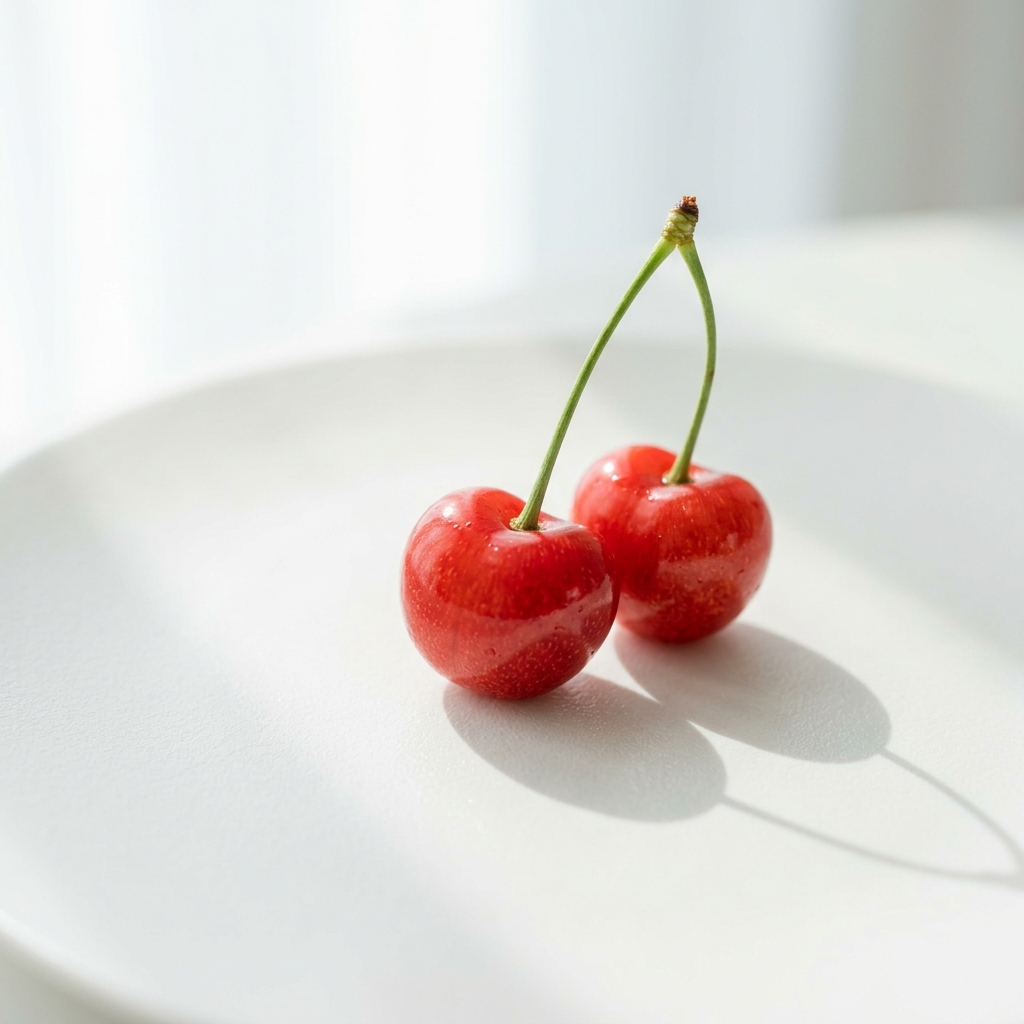
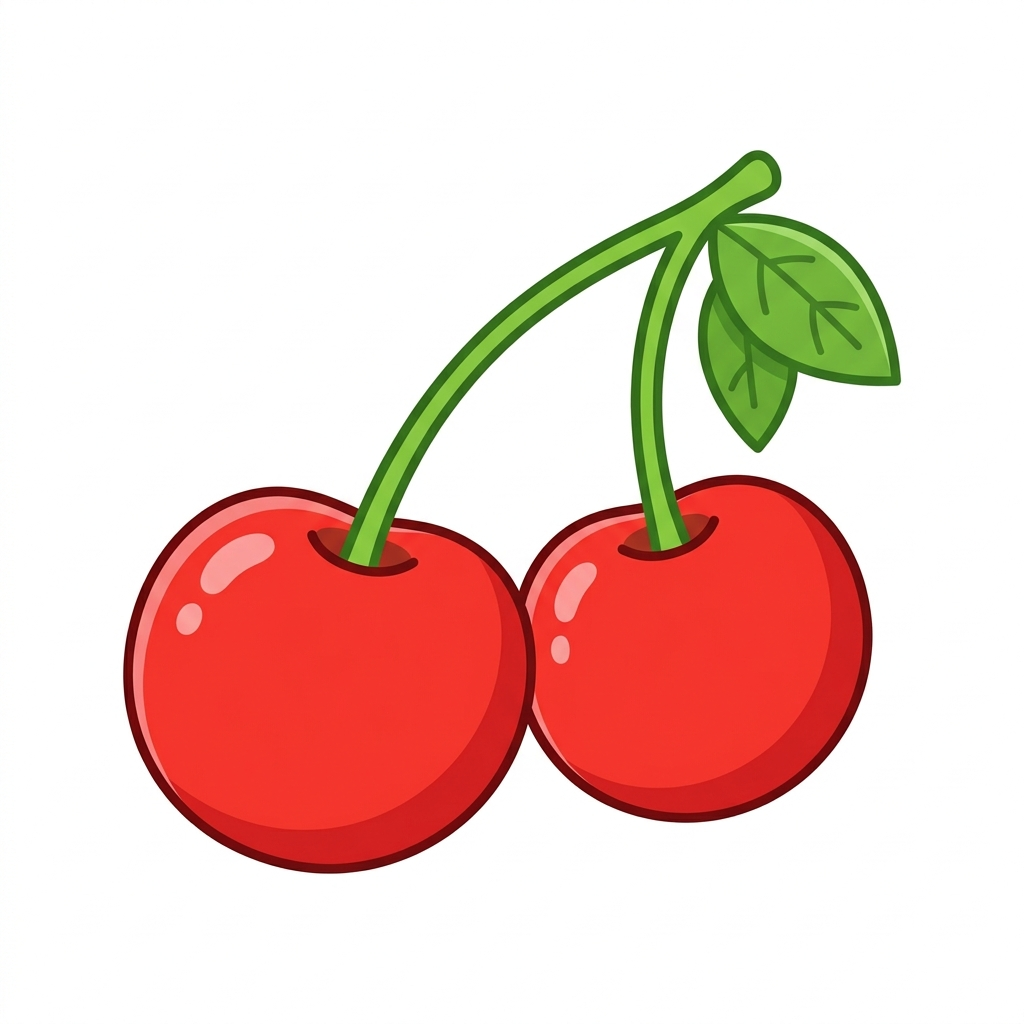
[개선] 앵두 이미지를 가이드 스타일(2D 일러스트)로 최종 수정 및 캐시 버전 업

diff --git a/docs/assets/main.js b/docs/assets/main.js
@@ -1,5 +1,5 @@
-import"./modulepreload-polyfill.js";/* empty css     */import{r as O,C as A,L}from"./index.js";import{K as j}from"./korean-lunar-calendar.js";const f=O("PushNotifications",{});async function G(){if(!A.isNativePlatform()){console.log("웹 환경이므로 Push 알림 초기화를 건너뜁니다.");return}console.log("Push 알림 초기화 시작...");try{let e=await f.checkPermissions();if(e.receive==="prompt"&&(e=await f.requestPermissions()),e.receive!=="granted"){console.log("Push 권한이 거부되었습니다.");return}await f.register(),f.addListener("registration",n=>{console.log("Push Registration Token:",n.value)}),f.addListener("registrationError",n=>{console.error("Push 등록 실패:",n)}),f.addListener("pushNotificationReceived",async n=>{console.log("알림 수신:",n),await L.schedule({notifications:[{title:n.title||"띵동 제철음식",body:n.body||"새로운 알림이 도착했습니다.",id:new Date().getTime(),schedule:{at:new Date(Date.now()+100)},extra:n.data,channelId:"default",smallIcon:"ic_notification"}]})});const t=n=>{console.log("알림 액션 발생:",n);const o=n.notification.extra||n.notification.data;o&&o.url?window.location.href=o.url:o&&o.path&&(window.location.hash=o.path)};f.addListener("pushNotificationActionPerformed",t),L.addListener("localNotificationActionPerformed",t),await f.createChannel({id:"default",name:"기본 알림",description:"띵동 제철음식 기본 알림",importance:3,visibility:1}),console.log("Push 알림 설정 완료")}catch(e){console.error("Push 초기화 중 오류 발생:",e)}}const x="seasons:ingredients:v17",z=1440*60*1e3;try{localStorage.removeItem("seasons:ingredients:v16"),localStorage.removeItem("seasons:ingredients:v15"),localStorage.removeItem("seasons:ingredients:v14"),localStorage.removeItem("seasons:ingredients:v13"),localStorage.removeItem("seasons:ingredients:v12"),localStorage.removeItem("seasons:ingredients:v11"),localStorage.removeItem("seasons:ingredients:v10"),console.log("구버전 캐시 초기화 완료 (v17)")}catch{}const _={해산물:1,채소:2,과일:3,기타:4};async function Z(){try{const e=await fetch("data/holidays.json?v=v10");if(!e.ok)throw new Error("명절 데이터 로드 실패");return{holidays:await e.json(),error:null}}catch(e){return console.error(e),{holidays:[],error:e}}}function F(e,t){const n=e.solar_overrides;if(!n)return null;const o=String(t),r=n[o];if(!r)return null;if(typeof r=="string"){const i=r.split("-");if(i.length!==2)return null;const a=parseInt(i[0],10),c=parseInt(i[1],10);return!a||!c?null:new Date(t,a-1,c)}return typeof r=="object"&&r.month&&r.day?new Date(t,r.month-1,r.day):null}function k(e){return e===2025?new Date(2025,11,22):e===2026?new Date(2026,11,22):new Date(e,11,22)}function D(e,t){const{type:n,month:o,day:r}=e.date,i=F(e,t);if(i)return i;if(e.id==="hansik"){const a=k(t-1);if(!a)return null;const c=new Date(a);return c.setDate(c.getDate()+105),c}if(n==="lunar"){const a=new j,c=!!e.date.intercalation;if(!a.setLunarDate(t,o,r,c))return null;const l=a.getSolarCalendar();return!l||!l.year||!l.month||!l.day?null:new Date(l.year,l.month-1,l.day)}return n==="solar"?new Date(t,o-1,r):k(t)}function P(e,t){const n=t.getFullYear();let o=D(e,n);return o?(o<t&&(o=D(e,n+1)),o):null}function K(e){const t=new Date;t.setHours(0,0,0,0);let n=null,o=1/0;return e.forEach(r=>{const i=P(r,t);if(!i)return;const a=i.getTime()-t.getTime();a>=0&&a<o&&(o=a,n={...r,solarDate:i})}),n}function Q(e){if(!e)return;const t=document.getElementById("holidayBanner");if(!t)return;const n=t.querySelector(".holiday-banner__date"),o=t.querySelector(".holiday-banner__description"),r=t.querySelector(".holiday-banner__image"),i=e.solarDate.getMonth()+1,a=e.solarDate.getDate();n.textContent=`${i}월 ${a}일은 ${e.name}입니다.`,o.textContent=`${e.name}에는 ${e.main_food} 먹어요`,r.src=`images/${e.image}`,r.alt=e.name,t.style.display="block",document.body.classList.add("has-banner"),t.onclick=()=>{window.location.href=`holiday.html?id=${encodeURIComponent(e.id)}`}}function U(){const e=document.getElementById("holidayBanner");if(!e)return;const t=e.querySelector(".holiday-banner__date"),n=e.querySelector(".holiday-banner__description"),o=e.querySelector(".holiday-banner__image");e.classList.add("holiday-banner--error"),e.style.cursor="default",e.onclick=null,t&&(t.textContent="명절 정보를 불러올 수 없습니다."),n&&(n.textContent="네트워크 상태를 확인해 주세요."),o&&(o.removeAttribute("src"),o.alt="",o.style.display="none"),e.style.display="block",document.body.classList.add("has-banner")}function V(){const e=document.getElementById("holidayBanner");if(!e)return;let t=window.scrollY,n=!1;const o=()=>{const r=window.scrollY,i=S();e.style.top=`${i}px`,r!==t&&(r<t||r<=50?(e.classList.remove("hidden"),document.body.classList.add("has-banner")):s.isProgrammaticScroll||(e.classList.add("hidden"),document.body.classList.remove("has-banner"))),t=r<=0?0:r,n=!1};o(),window.addEventListener("scroll",()=>{n||(window.requestAnimationFrame(o),n=!0)}),window.addEventListener("resize",()=>{requestAnimationFrame(o)})}function H(){return new Date().getMonth()}function W(e){return`${e}월`}function J(e){return e===12||e===1||e===2?"winter":e>=3&&e<=5?"spring":e>=6&&e<=8?"summer":"autumn"}function p(e){const t=e+1,n=J(t),o=document.body;o.classList.remove("theme-spring","theme-summer","theme-autumn","theme-winter"),o.classList.add(`theme-${n}`)}async function X(){try{const n=localStorage.getItem(x);if(n){const o=JSON.parse(n);if(Date.now()-o.timestamp<z)return o.data}}catch{}const e=await fetch("data/ingredients.json?v=v15",{cache:"no-cache"});if(!e.ok)throw new Error("데이터 로드 실패");const t=await e.json();try{localStorage.setItem(x,JSON.stringify({timestamp:Date.now(),data:t}))}catch{}return t}function ee(){const e=[];for(let t=1;t<=12;t++)e.push({month:t,key:`month-${t}`});return e}function B(e,t,n){const o=(t||"").trim().toLowerCase(),r=e.filter(i=>i.months?.includes(n)?o?`${i.name_ko||""}
[1 lines of base64/hex data omitted]
+import"./modulepreload-polyfill.js";/* empty css     */import{r as O,C as A,L}from"./index.js";import{K as j}from"./korean-lunar-calendar.js";const f=O("PushNotifications",{});async function G(){if(!A.isNativePlatform()){console.log("웹 환경이므로 Push 알림 초기화를 건너뜁니다.");return}console.log("Push 알림 초기화 시작...");try{let e=await f.checkPermissions();if(e.receive==="prompt"&&(e=await f.requestPermissions()),e.receive!=="granted"){console.log("Push 권한이 거부되었습니다.");return}await f.register(),f.addListener("registration",n=>{console.log("Push Registration Token:",n.value)}),f.addListener("registrationError",n=>{console.error("Push 등록 실패:",n)}),f.addListener("pushNotificationReceived",async n=>{console.log("알림 수신:",n),await L.schedule({notifications:[{title:n.title||"띵동 제철음식",body:n.body||"새로운 알림이 도착했습니다.",id:new Date().getTime(),schedule:{at:new Date(Date.now()+100)},extra:n.data,channelId:"default",smallIcon:"ic_notification"}]})});const t=n=>{console.log("알림 액션 발생:",n);const o=n.notification.extra||n.notification.data;o&&o.url?window.location.href=o.url:o&&o.path&&(window.location.hash=o.path)};f.addListener("pushNotificationActionPerformed",t),L.addListener("localNotificationActionPerformed",t),await f.createChannel({id:"default",name:"기본 알림",description:"띵동 제철음식 기본 알림",importance:3,visibility:1}),console.log("Push 알림 설정 완료")}catch(e){console.error("Push 초기화 중 오류 발생:",e)}}const x="seasons:ingredients:v17",z=1440*60*1e3;try{localStorage.removeItem("seasons:ingredients:v16"),localStorage.removeItem("seasons:ingredients:v15"),localStorage.removeItem("seasons:ingredients:v14"),localStorage.removeItem("seasons:ingredients:v13"),localStorage.removeItem("seasons:ingredients:v12"),localStorage.removeItem("seasons:ingredients:v11"),localStorage.removeItem("seasons:ingredients:v10"),console.log("구버전 캐시 초기화 완료 (v17)")}catch{}const _={해산물:1,채소:2,과일:3,기타:4};async function Z(){try{const e=await fetch("data/holidays.json?v=v10");if(!e.ok)throw new Error("명절 데이터 로드 실패");return{holidays:await e.json(),error:null}}catch(e){return console.error(e),{holidays:[],error:e}}}function F(e,t){const n=e.solar_overrides;if(!n)return null;const o=String(t),r=n[o];if(!r)return null;if(typeof r=="string"){const i=r.split("-");if(i.length!==2)return null;const a=parseInt(i[0],10),c=parseInt(i[1],10);return!a||!c?null:new Date(t,a-1,c)}return typeof r=="object"&&r.month&&r.day?new Date(t,r.month-1,r.day):null}function k(e){return e===2025?new Date(2025,11,22):e===2026?new Date(2026,11,22):new Date(e,11,22)}function D(e,t){const{type:n,month:o,day:r}=e.date,i=F(e,t);if(i)return i;if(e.id==="hansik"){const a=k(t-1);if(!a)return null;const c=new Date(a);return c.setDate(c.getDate()+105),c}if(n==="lunar"){const a=new j,c=!!e.date.intercalation;if(!a.setLunarDate(t,o,r,c))return null;const l=a.getSolarCalendar();return!l||!l.year||!l.month||!l.day?null:new Date(l.year,l.month-1,l.day)}return n==="solar"?new Date(t,o-1,r):k(t)}function P(e,t){const n=t.getFullYear();let o=D(e,n);return o?(o<t&&(o=D(e,n+1)),o):null}function K(e){const t=new Date;t.setHours(0,0,0,0);let n=null,o=1/0;return e.forEach(r=>{const i=P(r,t);if(!i)return;const a=i.getTime()-t.getTime();a>=0&&a<o&&(o=a,n={...r,solarDate:i})}),n}function Q(e){if(!e)return;const t=document.getElementById("holidayBanner");if(!t)return;const n=t.querySelector(".holiday-banner__date"),o=t.querySelector(".holiday-banner__description"),r=t.querySelector(".holiday-banner__image"),i=e.solarDate.getMonth()+1,a=e.solarDate.getDate();n.textContent=`${i}월 ${a}일은 ${e.name}입니다.`,o.textContent=`${e.name}에는 ${e.main_food} 먹어요`,r.src=`images/${e.image}`,r.alt=e.name,t.style.display="block",document.body.classList.add("has-banner"),t.onclick=()=>{window.location.href=`holiday.html?id=${encodeURIComponent(e.id)}`}}function U(){const e=document.getElementById("holidayBanner");if(!e)return;const t=e.querySelector(".holiday-banner__date"),n=e.querySelector(".holiday-banner__description"),o=e.querySelector(".holiday-banner__image");e.classList.add("holiday-banner--error"),e.style.cursor="default",e.onclick=null,t&&(t.textContent="명절 정보를 불러올 수 없습니다."),n&&(n.textContent="네트워크 상태를 확인해 주세요."),o&&(o.removeAttribute("src"),o.alt="",o.style.display="none"),e.style.display="block",document.body.classList.add("has-banner")}function V(){const e=document.getElementById("holidayBanner");if(!e)return;let t=window.scrollY,n=!1;const o=()=>{const r=window.scrollY,i=S();e.style.top=`${i}px`,r!==t&&(r<t||r<=50?(e.classList.remove("hidden"),document.body.classList.add("has-banner")):s.isProgrammaticScroll||(e.classList.add("hidden"),document.body.classList.remove("has-banner"))),t=r<=0?0:r,n=!1};o(),window.addEventListener("scroll",()=>{n||(window.requestAnimationFrame(o),n=!0)}),window.addEventListener("resize",()=>{requestAnimationFrame(o)})}function H(){return new Date().getMonth()}function W(e){return`${e}월`}function J(e){return e===12||e===1||e===2?"winter":e>=3&&e<=5?"spring":e>=6&&e<=8?"summer":"autumn"}function p(e){const t=e+1,n=J(t),o=document.body;o.classList.remove("theme-spring","theme-summer","theme-autumn","theme-winter"),o.classList.add(`theme-${n}`)}async function X(){try{const n=localStorage.getItem(x);if(n){const o=JSON.parse(n);if(Date.now()-o.timestamp<z)return o.data}}catch{}const e=await fetch("data/ingredients.json?v=v18",{cache:"no-cache"});if(!e.ok)throw new Error("데이터 로드 실패");const t=await e.json();try{localStorage.setItem(x,JSON.stringify({timestamp:Date.now(),data:t}))}catch{}return t}function ee(){const e=[];for(let t=1;t<=12;t++)e.push({month:t,key:`month-${t}`});return e}function B(e,t,n){const o=(t||"").trim().toLowerCase(),r=e.filter(i=>i.months?.includes(n)?o?`${i.name_ko||""}
[1 lines of base64/hex data omitted]
     <div class="info-modal__backdrop"></div>
     <div class="info-modal__content">
       <p class="info-modal__message">알림은 앱에서만 받을 수 있습니다. 스토어에서 설치해주세요.</p>

diff --git a/docs/assets/ingredient.js b/docs/assets/ingredient.js
@@ -1,4 +1,4 @@
-import"./modulepreload-polyfill.js";/* empty css     */import{g as c}from"./recipe-mapper.js";async function m(){try{const t=await fetch("data/ingredients.json?v=v17",{cache:"no-cache"});if(!t.ok)throw new Error("Failed to load data");return await t.json()}catch(t){return console.error(t),null}}function y(){const t=document.createElement("div");t.id="coupangRedirectOverlay",t.className="redirect-overlay",t.setAttribute("role","status"),t.innerHTML=`
+import"./modulepreload-polyfill.js";/* empty css     */import{g as c}from"./recipe-mapper.js";async function m(){try{const t=await fetch("data/ingredients.json?v=v18",{cache:"no-cache"});if(!t.ok)throw new Error("Failed to load data");return await t.json()}catch(t){return console.error(t),null}}function y(){const t=document.createElement("div");t.id="coupangRedirectOverlay",t.className="redirect-overlay",t.setAttribute("role","status"),t.innerHTML=`
     <p class="redirect-overlay__text"><span class="redirect-overlay__highlight">쿠팡</span>으로 이동 중이에요</p>
     <div class="redirect-overlay__arrow" aria-hidden="true"></div>
   `,document.body.appendChild(t),requestAnimationFrame(()=>t.classList.add("redirect-overlay--visible"))}function p(){const t=document.getElementById("coupangRedirectOverlay");t&&(t.classList.remove("redirect-overlay--visible"),setTimeout(()=>t.remove(),200))}async function g(){const d=new URLSearchParams(window.location.search).get("id");if(!d){document.getElementById("loading").style.display="none",document.getElementById("error").style.display="block";return}const l=await m();if(!l){document.getElementById("loading").style.display="none",document.getElementById("error").textContent="데이터를 불러올 수 없습니다.",document.getElementById("error").style.display="block";return}const e=l.find(n=>n.name_ko===d);if(!e){document.getElementById("loading").style.display="none",document.getElementById("error").style.display="block";return}if(document.title=`띵동 제철음식 - ${e.name_ko}`,document.getElementById("loading").style.display="none",document.getElementById("detailContainer").style.display="block",document.getElementById("detailImage").src=`images/${e.image||"_fallback.png"}`,document.getElementById("detailImage").alt=e.name_ko,document.getElementById("detailTitle").textContent=e.name_ko,document.getElementById("detailDesc").textContent=e.description_ko||"",e.months&&e.months.length>0){const n=e.months[0];let a="autumn";n===12||n<=2?a="winter":n>=3&&n<=5?a="spring":n>=6&&n<=8&&(a="summer"),document.body.classList.add(`theme-${a}`)}if(e.calories_per_100g&&(document.getElementById("caloriesSection").style.display="block",document.getElementById("caloriesPer100g").textContent=`${e.calories_per_100g}kcal`,document.getElementById("caloriesPerServing").textContent=e.calories_per_serving||""),e.preparation_ko&&(document.getElementById("prepSection").style.display="block",document.getElementById("prepText").textContent=e.preparation_ko),e.storage_room_temp||e.storage_refrigerator||e.storage_freezer){document.getElementById("storageSection").style.display="block";const n=document.getElementById("storageContent");[{t:"실온",i:"🏠",m:e.storage_room_temp},{t:"냉장",i:"🧊",m:e.storage_refrigerator},{t:"냉동",i:"❄",m:e.storage_freezer}].forEach(o=>{if(o.m){const i=document.createElement("div");i.className="modal__storage-item",i.innerHTML=`<span class="modal__storage-type">${o.i} ${o.t}</span><span class="modal__storage-method">${o.m}</span>`,n.appendChild(i)}})}if(e.popular_dish){document.getElementById("dishSection").style.display="block";const n=document.getElementById("dishText"),a=e.popular_dish.split(",").map(o=>o.trim());a.forEach((o,i)=>{const s=c(o);if(s){const r=document.createElement("a");r.href=`recipe.html#${s}`,r.className="dish-link",r.textContent=o,n.appendChild(r)}else{const r=document.createTextNode(o);n.appendChild(r)}i<a.length-1&&n.appendChild(document.createTextNode(", "))})}e.external_url&&(document.getElementById("bottomBar").style.display="flex",document.getElementById("btnPurchase").onclick=()=>{y(),setTimeout(()=>{window.open(e.external_url,"_blank","noopener,noreferrer"),setTimeout(p,400)},600)})}window.handleSmartBack=function(t){new URLSearchParams(window.location.search).get("fromNoti")==="true"||window.history.length<=1?window.location.href=t||"index.html":window.history.back()};document.addEventListener("DOMContentLoaded",g);

diff --git a/docs/assets/recipe.js b/docs/assets/recipe.js
@@ -1,4 +1,4 @@
-import"./modulepreload-polyfill.js";/* empty css     */function d(){const e=new URL(window.location.href),n=e.searchParams.get("id");if(n)return n;const o=(e.hash||"").replace(/^#\/?/,"").trim();if(o)return decodeURIComponent(o);const t=e.pathname.match(/\/recipe(?:\.html)?\/([^/?#]+)/);return t&&t[1]?decodeURIComponent(t[1]):null}async function a(e){try{const n=await fetch("data/recipes.json?v=v21");if(!n.ok)throw new Error("레시피 데이터 로드 실패");return(await n.json()).find(t=>t.id===e)}catch(n){return console.error(n),null}}function m(e){if(r(),!e){s();return}document.getElementById("recipeName").textContent=e.name,document.getElementById("recipeDescription").textContent=e.description,document.getElementById("recipeServings").textContent=`${e.servings}인분`,document.getElementById("recipeCookTime").textContent=e.cookTime,document.getElementById("recipeDifficulty").textContent=e.difficulty,l(e.ingredients),e.seasoning&&e.seasoning.length>0&&u(e.seasoning),p(e.steps),e.tips&&e.tips.length>0&&g(e.tips),document.title=`${e.name} 레시피 - 띵동 제철음식`}function l(e){const n=document.getElementById("ingredientsList");n.innerHTML="",e.forEach(o=>{const t=document.createElement("div");t.className="ingredient-item",t.innerHTML=`
+import"./modulepreload-polyfill.js";/* empty css     */function d(){const e=new URL(window.location.href),n=e.searchParams.get("id");if(n)return n;const o=(e.hash||"").replace(/^#\/?/,"").trim();if(o)return decodeURIComponent(o);const t=e.pathname.match(/\/recipe(?:\.html)?\/([^/?#]+)/);return t&&t[1]?decodeURIComponent(t[1]):null}async function a(e){try{const n=await fetch("data/recipes.json?v=v22");if(!n.ok)throw new Error("레시피 데이터 로드 실패");return(await n.json()).find(t=>t.id===e)}catch(n){return console.error(n),null}}function m(e){if(r(),!e){s();return}document.getElementById("recipeName").textContent=e.name,document.getElementById("recipeDescription").textContent=e.description,document.getElementById("recipeServings").textContent=`${e.servings}인분`,document.getElementById("recipeCookTime").textContent=e.cookTime,document.getElementById("recipeDifficulty").textContent=e.difficulty,l(e.ingredients),e.seasoning&&e.seasoning.length>0&&u(e.seasoning),p(e.steps),e.tips&&e.tips.length>0&&g(e.tips),document.title=`${e.name} 레시피 - 띵동 제철음식`}function l(e){const n=document.getElementById("ingredientsList");n.innerHTML="",e.forEach(o=>{const t=document.createElement("div");t.className="ingredient-item",t.innerHTML=`
       <span class="ingredient-name">${o.name}</span>
       <span class="ingredient-amount">${o.amount}</span>
     `,n.appendChild(t)})}function u(e){const n=document.getElementById("seasoningSection"),o=document.getElementById("seasoningList");n.style.display="block",o.innerHTML="",e.forEach(t=>{const i=document.createElement("div");i.className="ingredient-item",i.innerHTML=`

diff --git a/assets/script.js b/assets/script.js
@@ -272,7 +272,7 @@ async function loadIngredients() {
     }
   } catch {}
 
-  const res = await fetch('data/ingredients.json?v=v15', { cache: 'no-cache' });
+  const res = await fetch('data/ingredients.json?v=v18', { cache: 'no-cache' });
   if (!res.ok) throw new Error('데이터 로드 실패');
   const data = await res.json();
   try {
@@ -364,7 +364,7 @@ function createCard(item) {
   const caloriesValue = node.querySelector('.calories-value');
 
   title.textContent = item.name_ko || '';
-  const imgPath = `images/${item.image || '_fallback.png'}?v=v8`;
+  const imgPath = `images/${item.image || '_fallback.png'}?v=v9`;
   img.alt = item.name_ko ? `${item.name_ko} 이미지` : '재료 이미지';
   img.onerror = () => { 
     img.onerror = null; 

diff --git a/assets/recipe.js b/assets/recipe.js
@@ -18,7 +18,7 @@ function getRecipeIdFromUrl() {
 // 레시피 데이터 로드
 async function loadRecipe(recipeId) {
   try {
-    const res = await fetch('data/recipes.json?v=v21');
+    const res = await fetch('data/recipes.json?v=v22');
     if (!res.ok) throw new Error('레시피 데이터 로드 실패');
     const recipes = await res.json();
     return recipes.find(recipe => recipe.id === recipeId);

diff --git a/assets/ingredient.js b/assets/ingredient.js
@@ -5,7 +5,7 @@ import { getRecipeIdFromDishName } from './recipe-mapper.js';
 
 async function loadIngredientData() {
   try {
-    const res = await fetch('data/ingredients.json?v=v17', { cache: 'no-cache' });
+    const res = await fetch('data/ingredients.json?v=v18', { cache: 'no-cache' });
     if (!res.ok) throw new Error('Failed to load data');
     return await res.json();
   } catch (err) {
